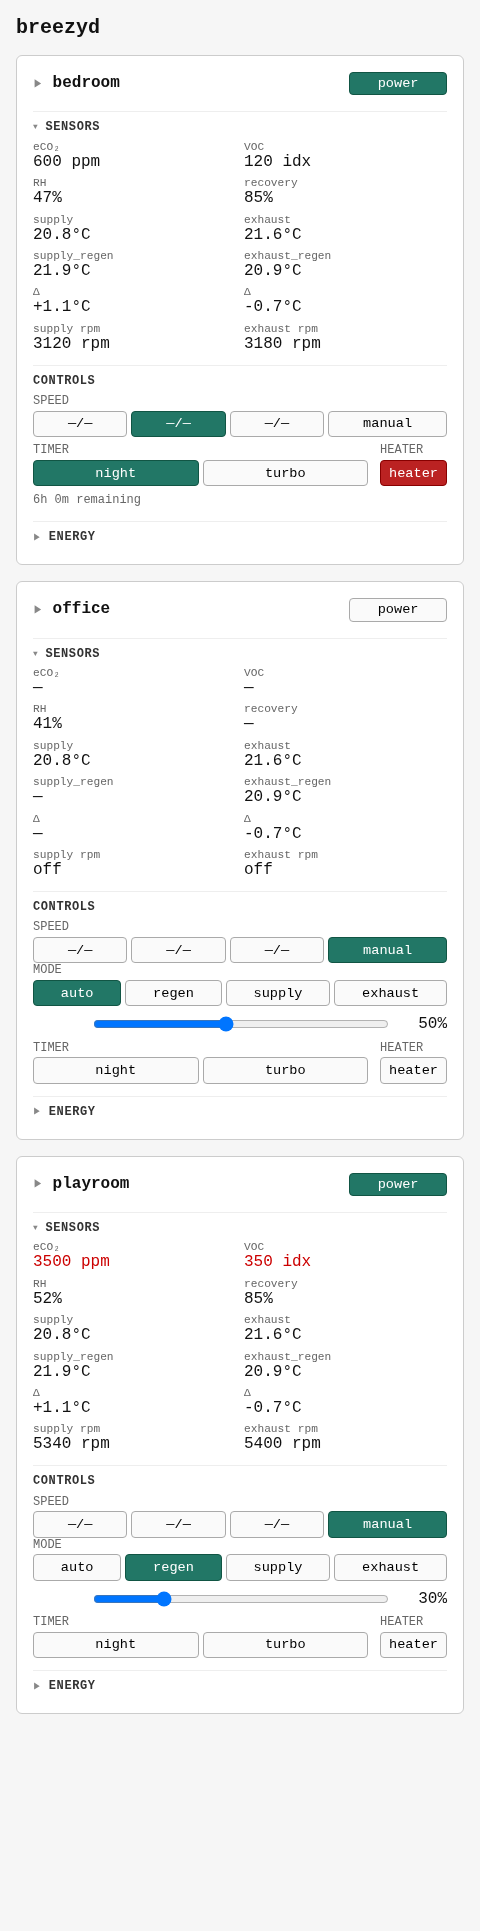
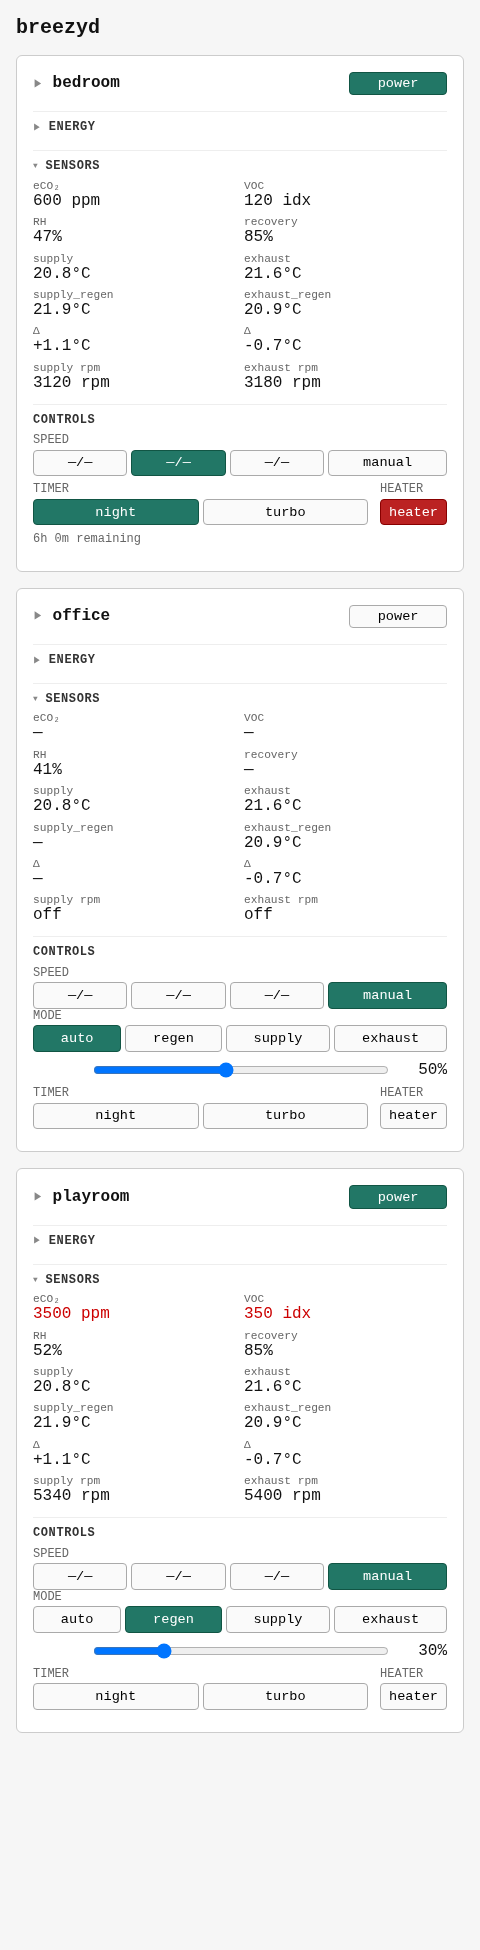
ui: rebuild ENERGY block as 5×3 grid above Sensors (#30, part 2)
Resolves #30. The per-card ENERGY block is now a single 5×3 grid:
row 1 instantaneous (regen power / regen cost / COP), then COP /
heating / cooling / consumed across today / month / lifetime. The
block now sits immediately above the Sensors <details>. Backend
month counters from part 1 feed the new month column. COP shows "—"
when consumed is zero or non-finite. Existing open-state-survives,
error-replaces-grid, and hidden-when-missing tests preserved verbatim.

diff --git a/tests/ui/dashboard.spec.ts b/tests/ui/dashboard.spec.ts
@@ -954,7 +954,10 @@ test("ENERGY block: open state survives the 5 s grid re-render", async ({ page }
       service: {
         energy: { supported: true, instant_w: 100, consumed_w: 10,
                   heating_today_kwh: 0.5, cooling_today_kwh: 0,
-                  consumed_today_kwh: 0.05, heating_lifetime_kwh: 50,
+                  consumed_today_kwh: 0.05,
+                  heating_month_kwh: 5, cooling_month_kwh: 0,
+                  consumed_month_kwh: 0.5,
+                  heating_lifetime_kwh: 50,
                   cooling_lifetime_kwh: 0, consumed_lifetime_kwh: 5 },
       },
     }),
@@ -969,7 +972,7 @@ test("ENERGY block: open state survives the 5 s grid re-render", async ({ page }
   await expect(page.locator(".card details.energy")).toHaveAttribute("open", "");
 });
 
-test("ENERGY block: collapsed by default, expanding shows now-line + 3-col grid", async ({ page }) => {
+test("ENERGY block: 5×3 grid renders all 15 cells with new labels", async ({ page }) => {
   await loadDashboard(page, {
     devices: [{ name: "playroom" }],
     snapshot: (n) => baseSnapshot(n, {
@@ -981,6 +984,9 @@ test("ENERGY block: collapsed by default, expanding shows now-line + 3-col grid"
           heating_today_kwh: 1.234,
           cooling_today_kwh: 0.456,
           consumed_today_kwh: 0.123,
+          heating_month_kwh: 30.0,
+          cooling_month_kwh: 5.5,
+          consumed_month_kwh: 3.7,
           heating_lifetime_kwh: 234.5,
           cooling_lifetime_kwh: 123.4,
           consumed_lifetime_kwh: 12.3,
@@ -989,45 +995,114 @@ test("ENERGY block: collapsed by default, expanding shows now-line + 3-col grid"
     }),
   });
   const energy = page.locator(".card details.energy");
-  await expect(energy).toBeVisible();
-  await expect(energy).not.toHaveAttribute("open", "");
   await energy.locator("summary").click();
-  await expect(energy).toContainText("245 W heating");
-  await expect(energy).toContainText("18 W consumed");
-  const cells = energy.locator(".sensor-cell");
-  await expect(cells).toHaveCount(6);
-  await expect(energy).toContainText("1.23"); // heating today
-  await expect(energy).toContainText("0.12"); // consumed today
-  await expect(energy).toContainText("12.30"); // consumed lifetime
+  const cells = energy.locator(".sensor-grid .sensor-cell");
+  await expect(cells).toHaveCount(15);
+  // Row 1 — instantaneous
+  await expect(energy.locator('.sensor-cell:has(.sensor-label:text-is("regen power"))')).toContainText("245 W heating");
+  await expect(energy.locator('.sensor-cell:has(.sensor-label:text-is("regen cost"))')).toContainText("18 W");
+  // Row 3 / 5 — windowed kWh
+  await expect(energy.locator('.sensor-cell:has(.sensor-label:text-is("heating today"))')).toContainText("1.23");
+  await expect(energy.locator('.sensor-cell:has(.sensor-label:text-is("heating month"))')).toContainText("30.00");
+  await expect(energy.locator('.sensor-cell:has(.sensor-label:text-is("consumed lifetime"))')).toContainText("12.30");
 });
 
-test("ENERGY block: cooling sign + sums in now-line", async ({ page }) => {
+test("ENERGY block: regen-power cooling sign", async ({ page }) => {
   await loadDashboard(page, {
     devices: [{ name: "playroom" }],
     snapshot: (n) => baseSnapshot(n, {
       service: {
-        energy: { supported: true, instant_w: -180, consumed_w: 18, heating_today_kwh: 0, cooling_today_kwh: 0.5, consumed_today_kwh: 0.05, heating_lifetime_kwh: 0, cooling_lifetime_kwh: 0, consumed_lifetime_kwh: 0 },
+        energy: {
+          supported: true, instant_w: -180, consumed_w: 18,
+          heating_today_kwh: 0, cooling_today_kwh: 0.5, consumed_today_kwh: 0.05,
+          heating_month_kwh: 0, cooling_month_kwh: 1, consumed_month_kwh: 0.2,
+          heating_lifetime_kwh: 0, cooling_lifetime_kwh: 0, consumed_lifetime_kwh: 0,
+        },
       },
     }),
   });
   const energy = page.locator(".card details.energy");
   await energy.locator("summary").click();
-  await expect(energy).toContainText("180 W cooling");
-  await expect(energy).toContainText("18 W consumed");
+  await expect(energy.locator('.sensor-cell:has(.sensor-label:text-is("regen power"))')).toContainText("180 W cooling");
 });
 
-test("ENERGY block: not regen → '0 W (not regen)'", async ({ page }) => {
+test("ENERGY block: instantaneous COP from instant_w / consumed_w", async ({ page }) => {
   await loadDashboard(page, {
     devices: [{ name: "playroom" }],
     snapshot: (n) => baseSnapshot(n, {
       service: {
-        energy: { supported: true, instant_w: 0, consumed_w: 0, heating_today_kwh: 0, cooling_today_kwh: 0, consumed_today_kwh: 0, heating_lifetime_kwh: 0, cooling_lifetime_kwh: 0, consumed_lifetime_kwh: 0 },
+        energy: {
+          supported: true, instant_w: 100, consumed_w: 25,
+          heating_today_kwh: 0, cooling_today_kwh: 0, consumed_today_kwh: 0,
+          heating_month_kwh: 0, cooling_month_kwh: 0, consumed_month_kwh: 0,
+          heating_lifetime_kwh: 0, cooling_lifetime_kwh: 0, consumed_lifetime_kwh: 0,
+        },
       },
     }),
   });
   const energy = page.locator(".card details.energy");
   await energy.locator("summary").click();
-  await expect(energy).toContainText("(not regen)");
+  await expect(energy.locator('.sensor-cell:has(.sensor-label:text-is("COP"))').first()).toContainText("4.0");
+});
+
+test("ENERGY block: time-windowed COP from (heating + cooling) / consumed", async ({ page }) => {
+  await loadDashboard(page, {
+    devices: [{ name: "playroom" }],
+    snapshot: (n) => baseSnapshot(n, {
+      service: {
+        energy: {
+          supported: true, instant_w: 0, consumed_w: 0,
+          heating_today_kwh: 1.0, cooling_today_kwh: 0.5, consumed_today_kwh: 0.5,
+          heating_month_kwh: 0, cooling_month_kwh: 0, consumed_month_kwh: 0,
+          heating_lifetime_kwh: 0, cooling_lifetime_kwh: 0, consumed_lifetime_kwh: 0,
+        },
+      },
+    }),
+  });
+  const energy = page.locator(".card details.energy");
+  await energy.locator("summary").click();
+  await expect(energy.locator('.sensor-cell:has(.sensor-label:text-is("COP today"))')).toContainText("3.0");
+});
+
+test("ENERGY block: COP renders '—' when consumed is zero", async ({ page }) => {
+  await loadDashboard(page, {
+    devices: [{ name: "playroom" }],
+    snapshot: (n) => baseSnapshot(n, {
+      service: {
+        energy: {
+          supported: true, instant_w: 0, consumed_w: 0,
+          heating_today_kwh: 0, cooling_today_kwh: 0, consumed_today_kwh: 0,
+          heating_month_kwh: 0, cooling_month_kwh: 0, consumed_month_kwh: 0,
+          heating_lifetime_kwh: 0, cooling_lifetime_kwh: 0, consumed_lifetime_kwh: 0,
+        },
+      },
+    }),
+  });
+  const energy = page.locator(".card details.energy");
+  await energy.locator("summary").click();
+  await expect(energy.locator('.sensor-cell:has(.sensor-label:text-is("COP"))').first()).toContainText("—");
+  await expect(energy.locator('.sensor-cell:has(.sensor-label:text-is("COP today"))')).toContainText("—");
+});
+
+test("ENERGY block: rendered above the Sensors block in DOM order", async ({ page }) => {
+  await loadDashboard(page, {
+    devices: [{ name: "playroom" }],
+    snapshot: (n) => baseSnapshot(n, {
+      service: {
+        energy: {
+          supported: true, instant_w: 100, consumed_w: 20,
+          heating_today_kwh: 1, cooling_today_kwh: 0, consumed_today_kwh: 0.5,
+          heating_month_kwh: 5, cooling_month_kwh: 0, consumed_month_kwh: 1,
+          heating_lifetime_kwh: 50, cooling_lifetime_kwh: 0, consumed_lifetime_kwh: 10,
+        },
+      },
+    }),
+  });
+  const card = page.locator(".card").first();
+  const energyBox = await card.locator("details.energy").boundingBox();
+  const sensorsBox = await card.locator("details.block.sensors").boundingBox();
+  if (!energyBox || !sensorsBox) throw new Error("missing bounding box");
+  expect(energyBox.y).toBeLessThan(sensorsBox.y);
 });
 
 test("ENERGY block: error replaces grid", async ({ page }) => {

diff --git a/cmd/breezyd/ui/index.html b/cmd/breezyd/ui/index.html
@@ -481,6 +481,8 @@ function renderCard(name, snap) {
     ${(toasts[name] || {}).power ? `<div class="toast" role="alert">${esc(toasts[name].power)}</div>` : ""}
     ${stale ? `<div class="row"><span class="ts red">${lastPollMs ? humanAgo(ageMs) + " ago" : "no poll"}</span></div>` : ""}
 
+    ${renderEnergy(name, snap)}
+
     ${(() => {
       const sa = snap.live?.sensor_alerts || {};
       const sensorAlerting = sa.humidity === true || sa.co2 === true || sa.voc === true;
@@ -492,7 +494,6 @@ function renderCard(name, snap) {
     })()}
 
     ${renderControls(name, snap, stale)}
-    ${renderEnergy(name, snap)}
   </div>`;
 }
 
@@ -512,25 +513,50 @@ function renderEnergy(name, snap) {
 }
 
 function energyBody(ev) {
-  let recovered;
-  if (ev.instant_w > 0) {
-    recovered = `${Math.round(ev.instant_w)} W heating`;
-  } else if (ev.instant_w < 0) {
-    recovered = `${Math.round(-ev.instant_w)} W cooling`;
-  } else {
-    recovered = `0 W (not regen)`;
-  }
-  const consumed = `${Math.round(ev.consumed_w ?? 0)} W consumed`;
   const fmtKwh = (v) => `${(v ?? 0).toFixed(2)} kWh`;
-  return `<div class="row"><span>now: ${esc(recovered)} · ${esc(consumed)}</span></div>
-    <div class="sensor-grid energy-grid">
-      <div class="sensor-cell"><div class="sensor-label">heating today</div><div>${fmtKwh(ev.heating_today_kwh)}</div></div>
-      <div class="sensor-cell"><div class="sensor-label">cooling today</div><div>${fmtKwh(ev.cooling_today_kwh)}</div></div>
-      <div class="sensor-cell"><div class="sensor-label">consumed today</div><div>${fmtKwh(ev.consumed_today_kwh)}</div></div>
-      <div class="sensor-cell"><div class="sensor-label">heating lifetime</div><div>${fmtKwh(ev.heating_lifetime_kwh)}</div></div>
-      <div class="sensor-cell"><div class="sensor-label">cooling lifetime</div><div>${fmtKwh(ev.cooling_lifetime_kwh)}</div></div>
-      <div class="sensor-cell"><div class="sensor-label">consumed lifetime</div><div>${fmtKwh(ev.consumed_lifetime_kwh)}</div></div>
-    </div>`;
+  const fmtW   = (v) => `${Math.round(v ?? 0)} W`;
+  // COP = useful-work / consumed. Renders as 1-dp number; "—" when
+  // consumed is zero / non-positive / non-finite to avoid Infinity/NaN.
+  const fmtCop = (num, den) => {
+    if (!den || den <= 0) return "—";
+    const r = Math.abs(num) / den;
+    if (!isFinite(r)) return "—";
+    return r.toFixed(1);
+  };
+
+  const w = ev.instant_w ?? 0;
+  let regenPower;
+  if (w > 0)      regenPower = `${fmtW(w)} heating`;
+  else if (w < 0) regenPower = `${fmtW(-w)} cooling`;
+  else            regenPower = "0 W";
+
+  const regenCost = fmtW(ev.consumed_w ?? 0);
+  const copNow    = fmtCop(ev.instant_w ?? 0, ev.consumed_w ?? 0);
+
+  const copToday    = fmtCop((ev.heating_today_kwh ?? 0)    + (ev.cooling_today_kwh ?? 0),    ev.consumed_today_kwh);
+  const copMonth    = fmtCop((ev.heating_month_kwh ?? 0)    + (ev.cooling_month_kwh ?? 0),    ev.consumed_month_kwh);
+  const copLifetime = fmtCop((ev.heating_lifetime_kwh ?? 0) + (ev.cooling_lifetime_kwh ?? 0), ev.consumed_lifetime_kwh);
+
+  const cell = (label, value) =>
+    `<div class="sensor-cell"><div class="sensor-label">${esc(label)}</div><div>${esc(value)}</div></div>`;
+
+  return `<div class="sensor-grid energy-grid">
+    ${cell("regen power",    regenPower)}
+    ${cell("regen cost",     regenCost)}
+    ${cell("COP",            copNow)}
+    ${cell("COP today",      copToday)}
+    ${cell("COP month",      copMonth)}
+    ${cell("COP lifetime",   copLifetime)}
+    ${cell("heating today",    fmtKwh(ev.heating_today_kwh))}
+    ${cell("heating month",    fmtKwh(ev.heating_month_kwh))}
+    ${cell("heating lifetime", fmtKwh(ev.heating_lifetime_kwh))}
+    ${cell("cooling today",    fmtKwh(ev.cooling_today_kwh))}
+    ${cell("cooling month",    fmtKwh(ev.cooling_month_kwh))}
+    ${cell("cooling lifetime", fmtKwh(ev.cooling_lifetime_kwh))}
+    ${cell("consumed today",    fmtKwh(ev.consumed_today_kwh))}
+    ${cell("consumed month",    fmtKwh(ev.consumed_month_kwh))}
+    ${cell("consumed lifetime", fmtKwh(ev.consumed_lifetime_kwh))}
+  </div>`;
 }
 
 function kv(k, v) {

diff --git a/tests/ui/screenshot.ts b/tests/ui/screenshot.ts
@@ -65,6 +65,9 @@ function snapshot(name: string) {
             heating_today_kwh: 1.23,
             cooling_today_kwh: 0.46,
             consumed_today_kwh: 0.12,
+            heating_month_kwh: 28.5,
+            cooling_month_kwh: 4.7,
+            consumed_month_kwh: 2.9,
             heating_lifetime_kwh: 234.5,
             cooling_lifetime_kwh: 123.4,
             consumed_lifetime_kwh: 12.3,
@@ -76,6 +79,9 @@ function snapshot(name: string) {
             heating_today_kwh: 0.62,
             cooling_today_kwh: 0.21,
             consumed_today_kwh: 0.08,
+            heating_month_kwh: 14.2,
+            cooling_month_kwh: 2.1,
+            consumed_month_kwh: 1.6,
             heating_lifetime_kwh: 142.8,
             cooling_lifetime_kwh: 71.2,
             consumed_lifetime_kwh: 8.1,